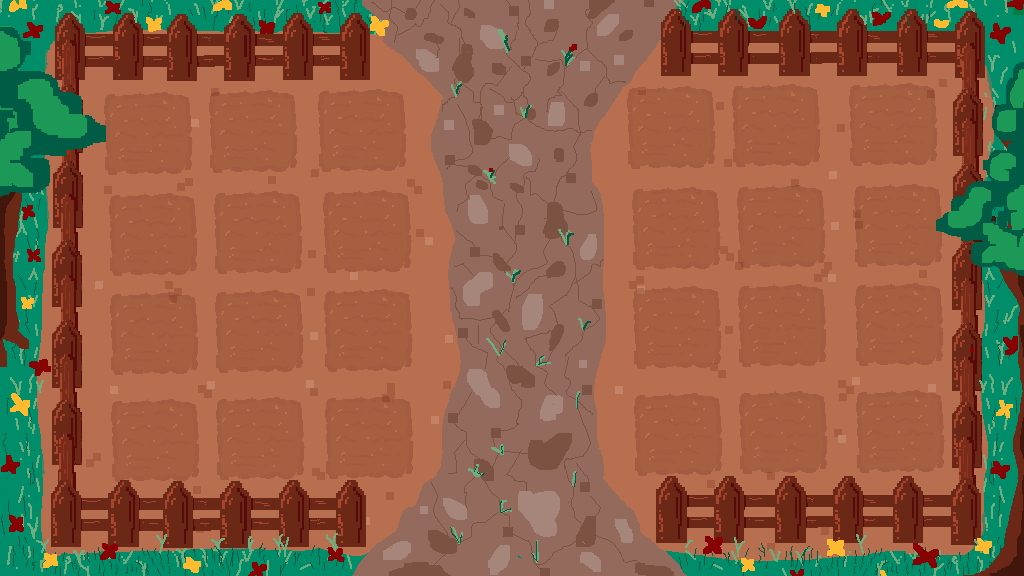
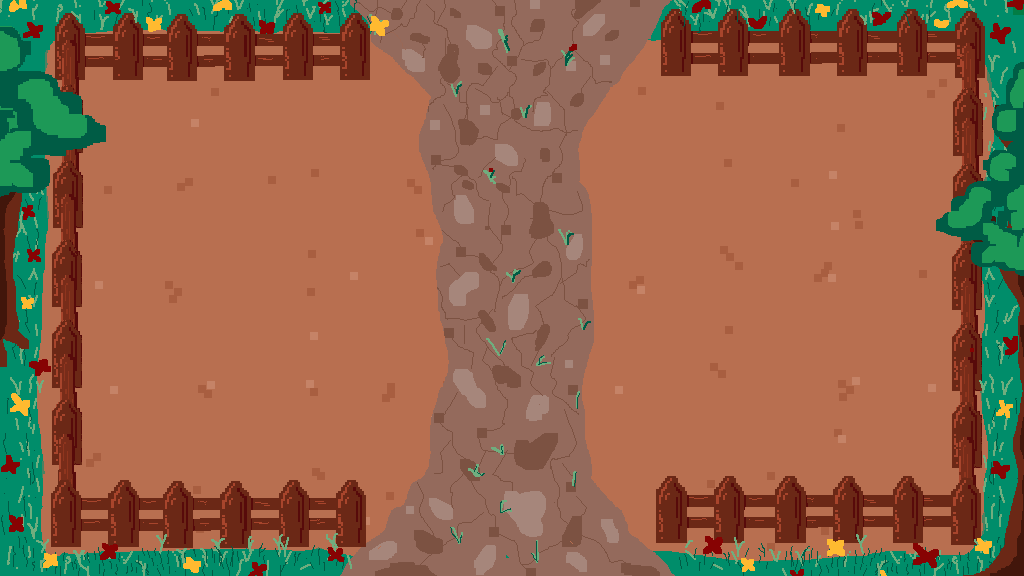
paso 1 con exito
se ven las mendigas casillas sobre el mapa WAAAJAJAJAJAJ

Changed region(s): [[0.3125, 0.0, 0.6875, 1.0]]

diff --git a/js/components/GameMain.js b/js/components/GameMain.js
@@ -60,6 +60,14 @@ app.component('game-main', {
       </aside>
     </section>
 
+    <!-- Grilla de parcelas - izquierda y derecha -->
+    <div class="plots-grid plots-left">
+      <div v-for="i in 12" :key="'L'+i" class="plot-cell"></div>
+    </div>
+    <div class="plots-grid plots-right">
+      <div v-for="i in 12" :key="'R'+i" class="plot-cell"></div>
+    </div>
+
     <!-- Interfaz del libro: comprar +3 fertilizante -->
     <div v-if="showCodex" class="book-modal" @click.self="toggleCodex">
       <div class="book-box">

diff --git a/css/base/_variables.css b/css/base/_variables.css
@@ -10,15 +10,12 @@
     --extra: #EB6269;
     --yellow: #F7CE7F;
 
-    /* Parcela y fondo (nuevas) */
-  --farm-field-width: 100vw;
-  --farm-field-height: calc(100vh - 120px);
 
   /* Ajusta estos hasta que calcen con tu arte */
-  --plots-w: 560px;
-  --plots-h: 780px;
+  --plots-w: 500px;
+  --plots-h: 700px;
   --plots-gap: 22px;
-  --plots-top: 110px;
+  --plots-top: 245px;
   --plots-left: 230px;
   --plots-right: 230px;
 
